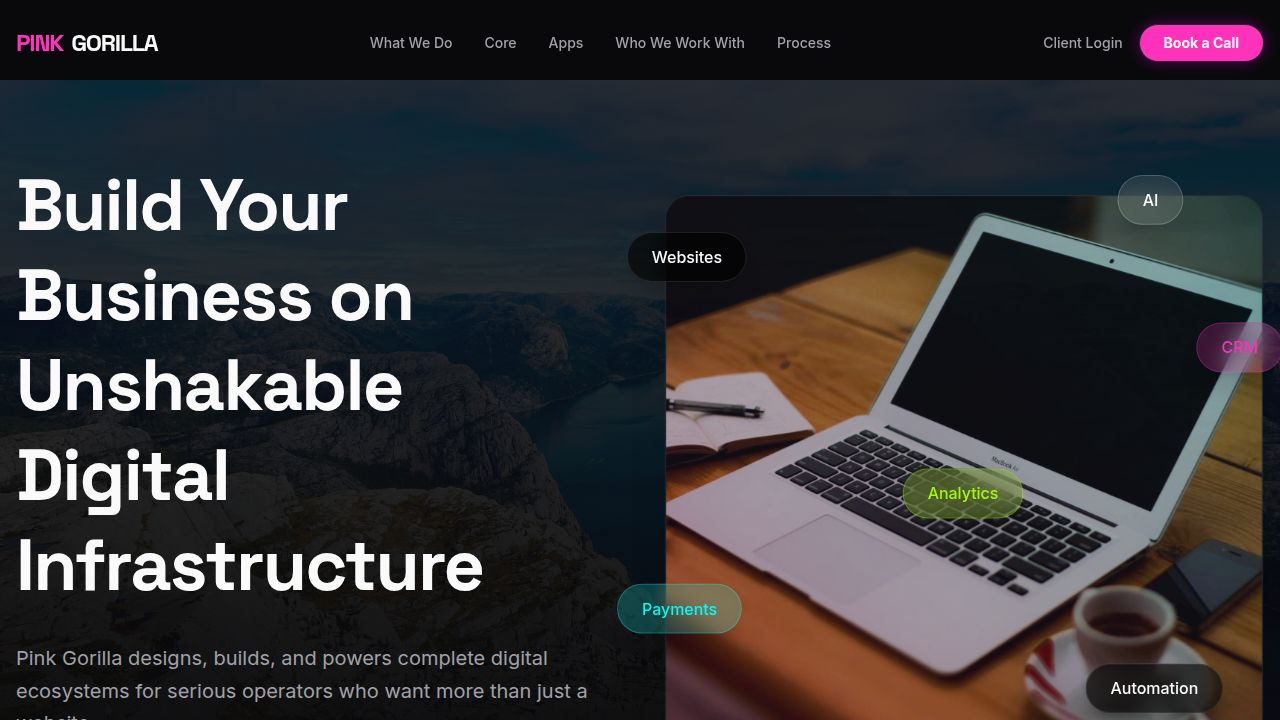
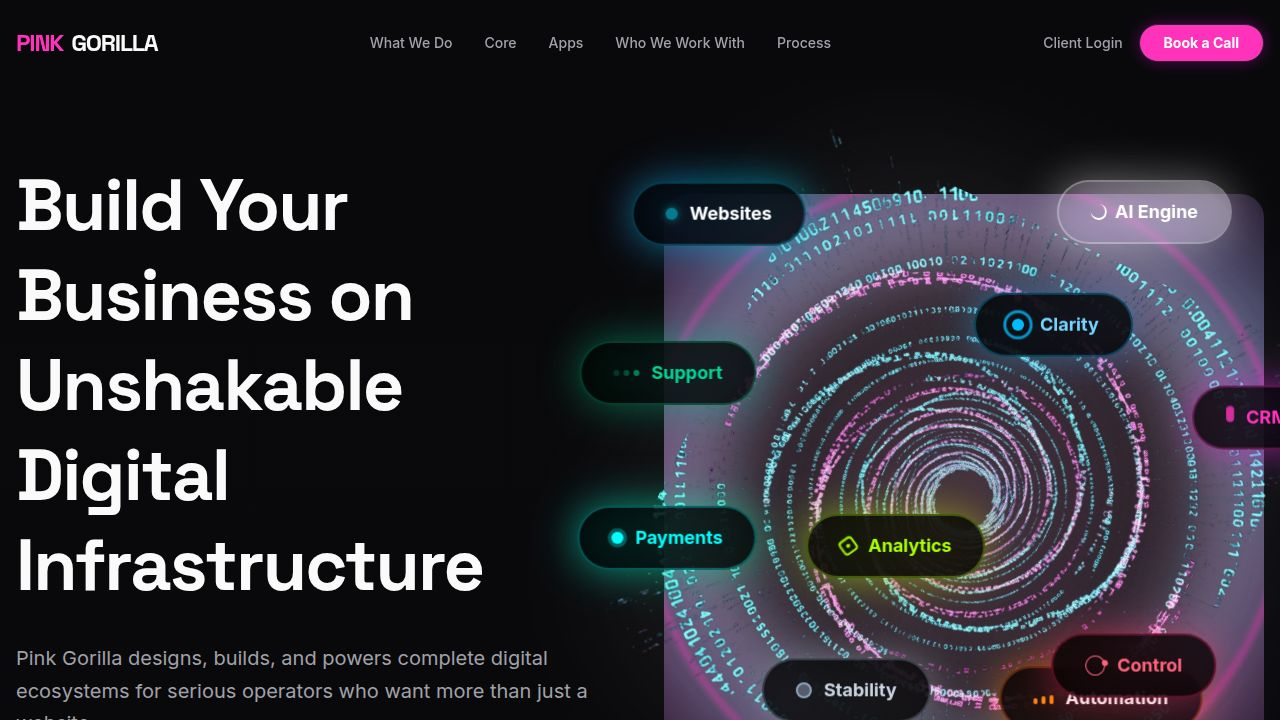
Intensify the dark, coded aesthetic of the hero section visuals
Update the hero section to feature a darker, more heavily coded appearance by removing the sonar effect, adding a black background behind the galaxy, and increasing the intensity of the matrix code layers with hex, binary, and data stream elements.

Replit-Commit-Author: Agent
Replit-Commit-Session-Id: 2dcbb8b3-8a15-4513-adb8-198690c26311
Replit-Commit-Checkpoint-Type: full_checkpoint
Replit-Commit-Event-Id: 8d7083b0-0cd0-4b7d-b6d0-9ba5e16b4d88
Replit-Commit-Screenshot-Url: https://storage.googleapis.com/screenshot-production-us-central1/b5ce1e09-db47-454d-ac97-12c35562799c/2dcbb8b3-8a15-4513-adb8-198690c26311/Ft9FB7I
Replit-Helium-Checkpoint-Created: true

diff --git a/client/src/components/sections/HeroSection.tsx b/client/src/components/sections/HeroSection.tsx
@@ -57,14 +57,15 @@ export function HeroSection() {
            <div className="absolute inset-0 flex items-center justify-center">
              
              {/* Techy Digital Code Background */}
-             <div className="absolute inset-0 overflow-hidden rounded-3xl pointer-events-none z-0 opacity-60 mix-blend-screen">
-               {[...Array(15)].map((_, i) => (
+             <div className="absolute inset-0 overflow-hidden rounded-3xl pointer-events-none z-0 opacity-80 mix-blend-screen">
+               {/* Hex Layer */}
+               {[...Array(30)].map((_, i) => (
                  <motion.div
                    key={`hex-${i}`}
                    initial={{ y: "-100%", opacity: 0 }}
                    animate={{ 
                      y: ["-10%", "110%"], 
-                     opacity: [0, 0.4, 0] 
+                     opacity: [0, 0.6, 0] 
                    }}
                    transition={{ 
                      duration: 10 + Math.random() * 15, 
@@ -72,19 +73,21 @@ export function HeroSection() {
                      delay: Math.random() * 10,
                      ease: "linear" 
                    }}
-                   className="absolute font-mono text-xs text-cyan-400/40 whitespace-pre leading-relaxed tracking-widest"
+                   className="absolute font-mono text-xs text-cyan-400/50 whitespace-pre leading-relaxed tracking-widest"
                    style={{ left: `${Math.random() * 100}%` }}
                  >
-                   {Array.from({length: 20}).map(() => Math.random().toString(36).substring(2, 8).toUpperCase()).join("\n")}
+                   {Array.from({length: 25}).map(() => Math.random().toString(36).substring(2, 8).toUpperCase()).join("\n")}
                  </motion.div>
                ))}
-               {[...Array(15)].map((_, i) => (
+               
+               {/* Binary Layer */}
+               {[...Array(40)].map((_, i) => (
                  <motion.div
                    key={`bin-${i}`}
                    initial={{ y: "110%", opacity: 0 }}
                    animate={{ 
                      y: ["110%", "-10%"], 
-                     opacity: [0, 0.3, 0] 
+                     opacity: [0, 0.4, 0] 
                    }}
                    transition={{ 
                      duration: 15 + Math.random() * 20, 
@@ -92,10 +95,32 @@ export function HeroSection() {
                      delay: Math.random() * 10,
                      ease: "linear" 
                    }}
-                   className="absolute font-mono text-[10px] text-primary/30 whitespace-pre leading-loose tracking-widest"
+                   className="absolute font-mono text-[10px] text-primary/40 whitespace-pre leading-loose tracking-widest"
                    style={{ left: `${Math.random() * 100}%` }}
                  >
-                   {Array.from({length: 30}).map(() => Math.round(Math.random())).join("\n")}
+                   {Array.from({length: 40}).map(() => Math.round(Math.random())).join("\n")}
+                 </motion.div>
+               ))}
+
+               {/* Data Stream Layer */}
+               {[...Array(20)].map((_, i) => (
+                 <motion.div
+                   key={`data-${i}`}
+                   initial={{ x: "-100%", opacity: 0 }}
+                   animate={{ 
+                     x: ["-10%", "110%"], 
+                     opacity: [0, 0.7, 0] 
+                   }}
+                   transition={{ 
+                     duration: 5 + Math.random() * 8, 
+                     repeat: Infinity, 
+                     delay: Math.random() * 5,
+                     ease: "linear" 
+                   }}
+                   className="absolute font-mono text-xs text-white/30 whitespace-nowrap tracking-tighter"
+                   style={{ top: `${Math.random() * 100}%` }}
+                 >
+                   {`SYS.CORE.${Math.random().toString(36).substring(2, 10).toUpperCase()} // OK`}
                  </motion.div>
                ))}
              </div>
@@ -141,34 +166,6 @@ export function HeroSection() {
                  className="absolute w-48 h-48 bg-primary rounded-full blur-[30px]"
                />
 
-               {/* Hyper-Speed Rotating Radar/Energy Beam */}
-               <motion.div 
-                 animate={{ rotate: 360 }}
-                 transition={{ duration: 2, repeat: Infinity, ease: "linear" }}
-                 className="absolute w-[1000px] h-[1000px] rounded-full opacity-80 mix-blend-screen"
-                 style={{
-                   background: "conic-gradient(from 0deg, transparent 0 340deg, rgba(0, 255, 255, 0.8) 360deg)"
-                 }}
-               />
-               
-               <motion.div 
-                 animate={{ rotate: -360 }}
-                 transition={{ duration: 3, repeat: Infinity, ease: "linear" }}
-                 className="absolute w-[900px] h-[900px] rounded-full opacity-80 mix-blend-screen"
-                 style={{
-                   background: "conic-gradient(from 0deg, transparent 0 340deg, rgba(255, 0, 255, 0.8) 360deg)"
-                 }}
-               />
-
-               <motion.div 
-                 animate={{ rotate: 360 }}
-                 transition={{ duration: 1, repeat: Infinity, ease: "linear" }}
-                 className="absolute w-[1200px] h-[1200px] rounded-full opacity-40 mix-blend-screen"
-                 style={{
-                   background: "conic-gradient(from 180deg, transparent 0 350deg, rgba(255, 255, 255, 0.8) 360deg)"
-                 }}
-               />
-
                {/* Geometric Energy Rings */}
                <motion.div
                  animate={{ scale: [1, 2, 1], opacity: [1, 0, 1], rotate: [0, 90, 180] }}
@@ -183,10 +180,12 @@ export function HeroSection() {
              </div>
 
              <FloatingElement delay={0} duration={8} yOffset={20} className="relative z-10 flex items-center justify-center w-full h-full">
+               {/* Dark Background behind Galaxy */}
+               <div className="absolute w-[400px] h-[400px] lg:w-[500px] lg:h-[500px] bg-black/90 rounded-full blur-2xl z-0 pointer-events-none" />
                <motion.img 
                  src={digitalGalaxy} 
                  alt="Digital Spiral Galaxy" 
-                 className="w-[90%] h-auto max-w-[600px] object-contain opacity-100 drop-shadow-[0_0_80px_rgba(255,255,255,0.6)] mix-blend-screen" 
+                 className="relative z-10 w-[90%] h-auto max-w-[600px] object-contain opacity-100 drop-shadow-[0_0_80px_rgba(255,255,255,0.6)] mix-blend-screen" 
                  animate={{ rotate: 360, scale: [1, 1.05, 1] }}
                  transition={{ 
                    rotate: { duration: 15, repeat: Infinity, ease: "linear" },
